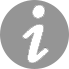
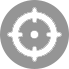
Added features, fix for fs in iOS
Added:
- Reset Location Button (Overview)
Removed:
- Info/ About Button (Overview)

Changed region(s): [[0.087, 0.058, 0.8986, 0.9275]]

diff --git a/www/index.html b/www/index.html
@@ -14,7 +14,7 @@
             <div class="swiper-slide">
               <button class="overviewButtonSettings" onClick="window.location = 'settings.html'"><img src="image/settings.png" alt="settings"/></button>
               <div class="overviewTemp" id="overviewTemp">15°C</div>
-              <button class="overviewButtonInfo" onClick="window.location = 'about.html'"><img src="image/info.png" alt="info"/></button>
+              <button class="overviewButtonInfo" onClick="resetLocation(); location.reload();"><img src="image/info.png" alt="info"/></button>
               <div class="overviewWeatherWindLabel"><div class="overviewWeatherLabel">Weather Conditions</div><div class="overviewWindLabel">Wind Direction</div></div>
               <div class="overviewWeather" id="overviewWeather"><img src="image/sunny.png" alt="weatherType"/></div>
               <div class="overviewWind" id="overviewWindDirection"><img src="image/N.png" alt="windDirection"/></div>
@@ -417,6 +417,14 @@
 			// This method accepts a Position object, which contains the
 			// current GPS coordinates
 			//
+			
+			function resetLocation() {
+				 coordinates = localStorage.getItem("userLat")+','+localStorage.getItem("userLong");
+				 localStorage.setItem("coordinates", coordinates);
+				 console.log("users coords");
+				 localStorage.setItem("firstLoad", "1");
+			}
+			
 			var onSuccess = function(position) {
 			  localStorage.key("firstLoad");
 			  
@@ -431,7 +439,7 @@
 				coordinates = position.coords.latitude+','+position.coords.longitude;
 				localStorage.setItem("coordinates", coordinates);
 				console.log("users coords");
-			  }		  	  
+			  }
 			  
 			  localStorage.setItem("firstLoad", "0");
 			  

diff --git a/www/search.html b/www/search.html
@@ -4,13 +4,12 @@
     <meta charset="utf-8">
     <title>Trident</title>
     <meta name="viewport" content="width=device-width, initial-scale=1, minimum-scale=1, maximum-scale=1">
-
     <!-- Link Swiper's CSS -->
     <link rel="stylesheet" href="dist/css/swiper.min.css">
-
 </head>
 <body>
             	<div class="forecastHeader"><button class="back" type="button" id="backButton" onclick="history.go(-1); localStorage.setItem('refresh', '1');"><img src="image/backArrow.png" alt="backArrow"/></button><div class="subheader">Search</div></div>
+                <button class="saveLocation" type="button" id="submitLocation" onclick="history.go(-1); shortToast('New Location Saved!');">Favourites</button>
                 <input id="pac-input" class="controls" type="text" placeholder="Search Box">
    				<div id="map"></div>
                 <div id="current">Loading Location...</div>
